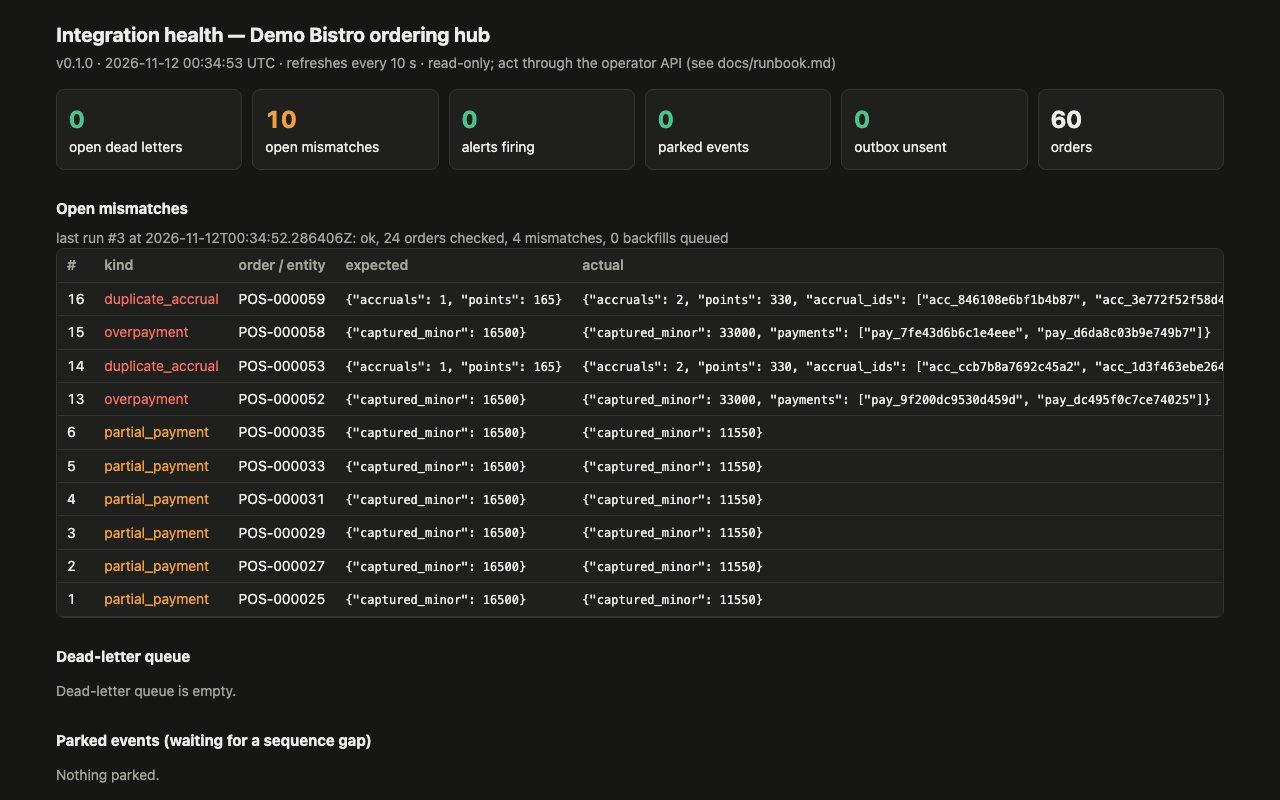
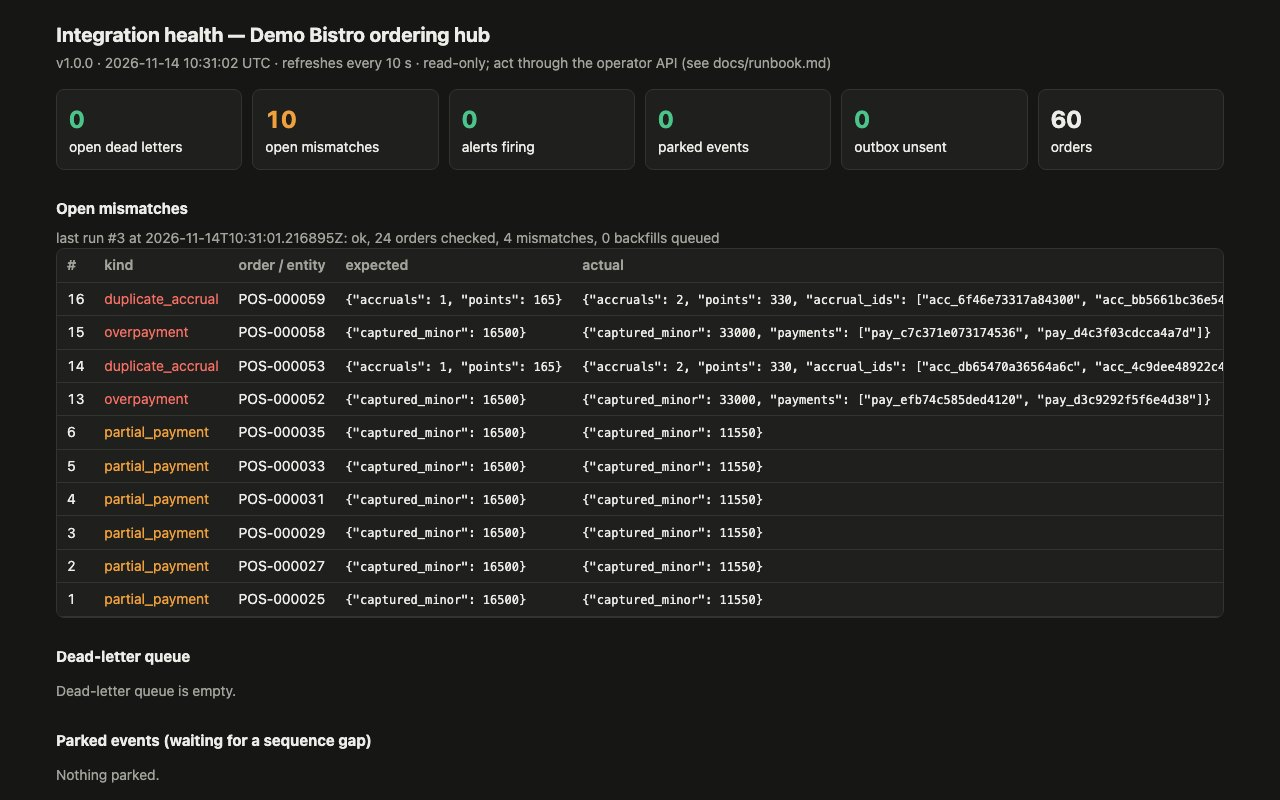
Fix job dates, stat tiles and thesis figure; tidy the repository
- Current job: one AI Solutions Engineer entry from July 2026 that says
  the role has been full-time since late August, after a one-month IT
  internship. Header and bullets now tell the same story.
- Stat tiles: "4+ roles" and "15+ shipped projects" replaced by countable
  numbers (3 engineering roles: 1 full-time, 2 internships; 3 CI-gated
  agent and integration projects).
- Thesis card: 96.7% is the 30-question general test; the regulation test
  scored 90%, as in the paper's Table 6.
- Turkish decimals with a comma in the Education line.
- Grids no longer overflow narrow phones (minmax(min(100%, Npx), 1fr)).
- Reliability Lab thumbnail retaken at version 1.0.0.
- Removed the stale og.html template and the unused brain-tumor
  infographic; .DS_Store untracked; README lists the files that exist.

diff --git a/index.html b/index.html
@@ -182,7 +182,7 @@
     .xp.detailed .xp-list li.d{display:list-item}
 
     /* projects */
-    .proj-grid{display:grid;grid-template-columns:repeat(auto-fill,minmax(330px,1fr));gap:20px}
+    .proj-grid{display:grid;grid-template-columns:repeat(auto-fill,minmax(min(100%,330px),1fr));gap:20px}
     .pcard{position:relative;background:var(--bg-2);border:1px solid var(--line);border-radius:var(--r);padding:26px;display:flex;flex-direction:column;transition:transform .24s,border-color .24s,box-shadow .24s;overflow:hidden}
     .p-thumb{margin:-26px -26px 18px;border-bottom:1px solid var(--line);aspect-ratio:16/10;overflow:hidden;background:var(--bg)}
     .p-thumb img{width:100%;height:100%;object-fit:cover;object-position:top;display:block;transition:transform .35s}
@@ -212,7 +212,7 @@
     .more-row{margin-top:32px;text-align:center}
 
     /* skills */
-    .skills-grid{display:grid;grid-template-columns:repeat(auto-fit,minmax(300px,1fr));gap:18px}
+    .skills-grid{display:grid;grid-template-columns:repeat(auto-fit,minmax(min(100%,300px),1fr));gap:18px}
     .skblock{border:1px solid var(--line);border-radius:var(--r);background:var(--bg-2);padding:24px}
     .skblock h4{font-family:var(--f-mono);font-size:.8rem;letter-spacing:.08em;text-transform:uppercase;color:var(--accent);margin-bottom:16px;display:flex;align-items:center;gap:9px}
     .skblock h4 svg{width:17px;height:17px;stroke:var(--accent);fill:none;stroke-width:1.8}
@@ -230,7 +230,7 @@
     .edu .ribbon{position:absolute;top:24px;right:24px;font-family:var(--f-mono);font-size:.66rem;color:var(--accent);border:1px solid var(--accent-line);background:var(--accent-soft);padding:3px 9px;border-radius:999px}
 
     /* certificates */
-    .cert-grid{display:grid;grid-template-columns:repeat(auto-fill,minmax(290px,1fr));gap:16px}
+    .cert-grid{display:grid;grid-template-columns:repeat(auto-fill,minmax(min(100%,290px),1fr));gap:16px}
     .cert{display:flex;gap:16px;align-items:flex-start;border:1px solid var(--line);border-radius:14px;background:var(--bg-2);padding:20px;transition:border-color .2s,transform .2s}
     .cert:hover{border-color:var(--accent-line);transform:translateY(-3px)}
     .cert .ic{width:46px;height:46px;border-radius:11px;flex-shrink:0;display:grid;place-items:center;font-size:1.3rem;background:var(--bg);border:1px solid var(--line)}
@@ -373,8 +373,8 @@
         </aside>
       </div>
       <div class="stats reveal" style="margin-top:48px">
-        <div class="stat"><b>4<span class="u">+</span></b><small><span class="t-tr">Profesyonel deneyim</span><span class="t-en">Professional roles</span></small></div>
-        <div class="stat"><b>15<span class="u">+</span></b><small><span class="t-tr">Yayımlanan proje</span><span class="t-en">Shipped projects</span></small></div>
+        <div class="stat"><b>3</b><small><span class="t-tr">Mühendislik rolü (1 tam zamanlı, 2 staj)</span><span class="t-en">Engineering roles (1 full-time, 2 internships)</span></small></div>
+        <div class="stat"><b>3</b><small><span class="t-tr">CI kapılı ajan ve entegrasyon projesi</span><span class="t-en">CI-gated agent &amp; integration projects</span></small></div>
         <div class="stat"><b>1</b><small><span class="t-tr">arXiv tez ön baskısı</span><span class="t-en">arXiv thesis preprint</span></small></div>
         <div class="stat"><b>C1</b><small><span class="t-tr">İngilizce (iş)</span><span class="t-en">English (business)</span></small></div>
       </div>
@@ -399,10 +399,10 @@
           <div class="xp-when"><span class="t-tr">Tem 2026 — Devam</span><span class="t-en">Jul 2026 — Present</span><span class="place"><span class="t-tr">İstanbul · Ofiste</span><span class="t-en">İstanbul · On-site</span></span></div>
           <div>
             <div class="xp-role">AI Solutions Engineer</div>
-            <div class="xp-org">Tam Hangers · <span class="t-tr">Tam zamanlı</span><span class="t-en">Full-time</span></div>
+            <div class="xp-org">Tam Hangers · <span class="t-tr">Ağustos 2026 sonundan beri tam zamanlı · öncesinde bir aylık BT stajı</span><span class="t-en">Full-time since late Aug 2026, after a one-month IT internship</span></div>
             <ul class="xp-list">
               <li class="s"><span class="t-tr">Şirket genelindeki yapay zeka entegrasyon sürecini yürütüyorum; farklı departmanlar için otomasyonlar ve rutin işleri kolaylaştıran şirket içi AI araçları geliştirerek dijital dönüşüme katkı sağlıyorum.</span><span class="t-en">Coordinate company-wide AI integration, building department-specific automations and internal AI tools that simplify routine work and support digital transformation.</span></li>
-              <li class="d"><span class="t-tr">Temmuz 2026’da Tam Hangers’a katıldım; Bilgi Teknolojileri Uzmanı stajının ardından tam zamanlı AI Solutions Engineer rolüne geçtim.</span><span class="t-en">Joined Tam Hangers in July 2026 and later moved into the full-time AI Solutions Engineer role after the IT Specialist internship.</span></li>
+              <li class="d"><span class="t-tr">Temmuz 2026’da Tam Hangers’a Bilgi Teknolojileri Uzmanı stajyeri olarak katıldım; stajım ağustos sonunda biter bitmez tam zamanlı AI Solutions Engineer rolüne geçtim.</span><span class="t-en">Joined Tam Hangers in July 2026 as an IT Specialist intern and moved into the full-time AI Solutions Engineer role as soon as the internship ended in late August.</span></li>
               <li class="d"><span class="t-tr">Farklı departmanlardaki iş akışlarını analiz ederek tekrarlayan ve manuel süreçler için yapay zeka tabanlı otomasyonlar kuruyorum.</span><span class="t-en">Analyse workflows across departments and implement AI-powered automations for repetitive and manual processes.</span></li>
               <li class="d"><span class="t-tr">Rutin işleri kolaylaştıran şirket içi AI araçları geliştiriyorum; yapay zekanın günlük operasyonlara entegrasyonunu ve şirketin dijital dönüşümünü destekliyorum.</span><span class="t-en">Build internal AI tools that simplify routine work, integrate AI into daily operations and support the company's digital transformation.</span></li>
               <li class="d"><span class="t-tr">Her gün AI coding araçlarını kullanarak çözümleri daha hızlı prototipliyor, geliştiriyor, hata ayıklıyor ve yayımlıyorum.</span><span class="t-en">Use AI coding tools daily to prototype, ship, debug and iterate on solutions faster.</span></li>
@@ -469,7 +469,7 @@
         <article class="pcard feat reveal">
           <div class="p-top"><span class="p-kind"><span class="t-tr">★ Lisans Tezi · arXiv ön baskısı</span><span class="t-en">★ Bachelor's Thesis · arXiv preprint</span></span><span class="p-year">2025</span></div>
           <h3><span class="t-tr">LLM Distilasyonu &amp; Alana Özgü Uzmanlaşma</span><span class="t-en">LLM Distillation &amp; Domain Specialization</span></h3>
-          <p><span class="t-tr">Lisans tezim (danışman Prof. Dr. Pakize Erdoğmuş) — <i>"Domain Specific Specialization in Low-Resource Settings"</i>. Düşük kaynakla, offline response-based <b>bilgi damıtma</b> ile alana özgü bir asistan kurdum: bir <b>"Düzce Üniversitesi Mevzuat Uzmanı"</b>. Qwen-2.5-7B öğrenci modelini Unsloth ile optimize ederek A100 bellek ihtiyacını <b>40 GB → 16 GB</b> düşürdüm; yalnızca <b>500 satırlık</b> bağlam-duyarlı sentetik veriyle <b>%96,7 doğruluk</b> + sağlam reddetme elde ettim — veri kalitesinin nicelikten önemli olduğunu (LIMA hipotezi) gösterir nitelikte.</span><span class="t-en">My bachelor's thesis (advisor Prof. Pakize Erdoğmuş) — <i>"Domain Specific Specialization in Low-Resource Settings"</i>. A low-resource, offline response-based <b>knowledge-distillation</b> pipeline for a domain assistant: a <b>"Düzce University Regulation Expert"</b>. Optimizing a Qwen-2.5-7B student with Unsloth cut the A100 memory requirement from <b>40 GB → 16 GB</b>; a mere <b>500-line</b> context-aware synthetic dataset reached <b>96.7% accuracy</b> + robust rejection — evidence that data quality beats quantity (the LIMA hypothesis).</span></p>
+          <p><span class="t-tr">Lisans tezim (danışman Prof. Dr. Pakize Erdoğmuş) — <i>"Domain Specific Specialization in Low-Resource Settings"</i>. Düşük kaynakla, offline response-based <b>bilgi damıtma</b> ile alana özgü bir asistan kurdum: bir <b>"Düzce Üniversitesi Mevzuat Uzmanı"</b>. Qwen-2.5-7B öğrenci modelini Unsloth ile optimize ederek A100 bellek ihtiyacını <b>40 GB → 16 GB</b> düşürdüm; yalnızca <b>500 satırlık</b> bağlam-duyarlı sentetik veriyle 30 soruluk genel testte <b>%96,7 doğruluk</b> (mevzuat sorularında %90) + sağlam reddetme elde ettim — veri kalitesinin nicelikten önemli olduğunu (LIMA hipotezi) gösterir nitelikte.</span><span class="t-en">My bachelor's thesis (advisor Prof. Pakize Erdoğmuş) — <i>"Domain Specific Specialization in Low-Resource Settings"</i>. A low-resource, offline response-based <b>knowledge-distillation</b> pipeline for a domain assistant: a <b>"Düzce University Regulation Expert"</b>. Optimizing a Qwen-2.5-7B student with Unsloth cut the A100 memory requirement from <b>40 GB → 16 GB</b>; a mere <b>500-line</b> context-aware synthetic dataset reached <b>96.7% accuracy</b> on the 30-question general test (90% on regulation questions) + robust rejection — evidence that data quality beats quantity (the LIMA hypothesis).</span></p>
           <div class="tags"><span class="tag">PyTorch</span><span class="tag">Knowledge Distillation</span><span class="tag">Qwen-2.5-7B</span><span class="tag">Unsloth</span><span class="tag">Synthetic Data</span><span class="tag">LLM</span></div>
           <div class="p-links">
             <a href="https://arxiv.org/abs/2601.16219" target="_blank" rel="noopener" class="demo"><svg viewBox="0 0 24 24" fill="none" stroke="currentColor" stroke-width="2"><path d="M14 3h7v7M21 3l-9 9M21 14v5a2 2 0 01-2 2H5a2 2 0 01-2-2V5a2 2 0 012-2h5"/></svg>arXiv:2601.16219</a>
@@ -705,7 +705,7 @@
           <span class="when"><span class="t-tr">2022 — Haz 2026</span><span class="t-en">2022 — Jun 2026</span></span>
           <h3><span class="t-tr">Bilgisayar Mühendisliği (Lisans)</span><span class="t-en">BSc Computer Engineering</span></h3>
           <div class="school"><span class="t-tr">Düzce Üniversitesi</span><span class="t-en">Düzce University</span></div>
-          <p><span class="t-tr">GPA 3.17 / 4.00 · 4 yıllık müfredatı 3.5 yılda tamamladım · 1 yıl İngilizce hazırlık (2021–2022)</span><span class="t-en">GPA 3.17 / 4.00 · Completed the four-year curriculum in 3.5 years · One-year English preparatory programme (2021–2022)</span></p>
+          <p><span class="t-tr">Not ortalaması 3,17 / 4,00 · 4 yıllık müfredatı 3,5 yılda tamamladım · 1 yıl İngilizce hazırlık (2021–2022)</span><span class="t-en">GPA 3.17 / 4.00 · Completed the four-year curriculum in 3.5 years · One-year English preparatory programme (2021–2022)</span></p>
         </div>
         <div class="edu reveal">
           <span class="ribbon"><span class="t-tr">Tam Burslu</span><span class="t-en">Fully Funded</span></span>

diff --git a/README.md b/README.md
@@ -12,12 +12,13 @@ A single-page, bilingual (TR/EN), modern portfolio site built with plain HTML, C
 - TR/EN dil değişimi (tercih `localStorage`'da saklanır)
 - Koyu "developer" teması, responsive tasarım, mobil menü
 - Scroll animasyonları, typewriter efekti, aktif menü vurgusu
-- `prefers-reduced-motion` desteği, SEO/Open Graph meta etiketleri, inline SVG favicon
+- `prefers-reduced-motion` desteği, SEO/Open Graph meta etiketleri
 
 ## 🗂 Yapı / Structure
 - `index.html` — sitenin tamamı (HTML + CSS + JS tek dosyada)
-- `*.html` (projects, certificates, *-en) — eski sayfalar, artık `index.html`'e yönlendirir
-- `profile_cropped.jpg`, `*mat.png`, `T3Certificate.png`, `portfolio_qr.png` — görseller
+- `proj-*.jpg` — proje kartlarının görselleri; `cert-*.png`, `T3Certificate.png` — sertifikalar
+- `profile.jpg` (yedek: `profile_cropped.jpg`), `logo-ea-white.png`, `logo-favicon.png`, `og.png` — profil fotoğrafı, logo, favicon ve paylaşım görseli
+- `Erdem-Aslan-CV-EN.pdf`, `Erdem-Aslan-CV-TR.pdf` — özgeçmişler
 
 ## 🛠 Teknolojiler / Tech
 HTML · CSS · Vanilla JavaScript · GitHub Pages
